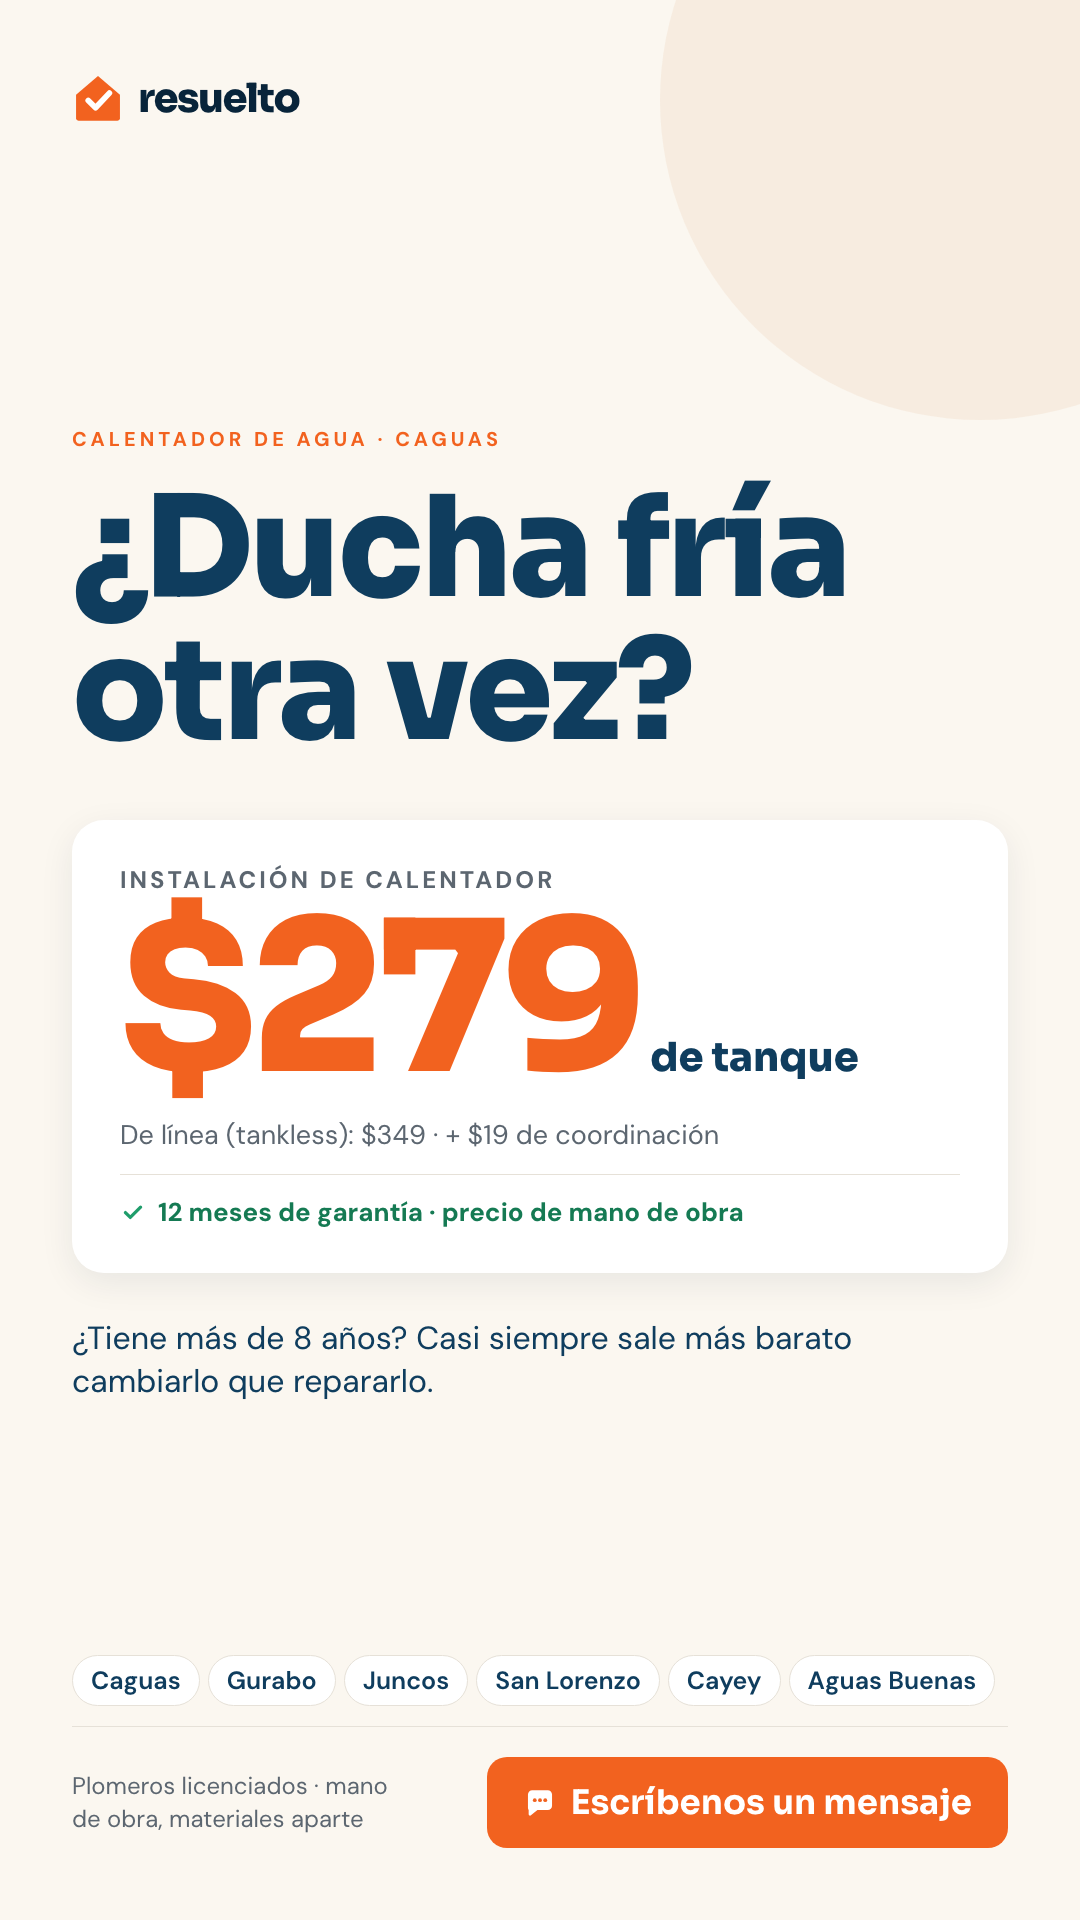
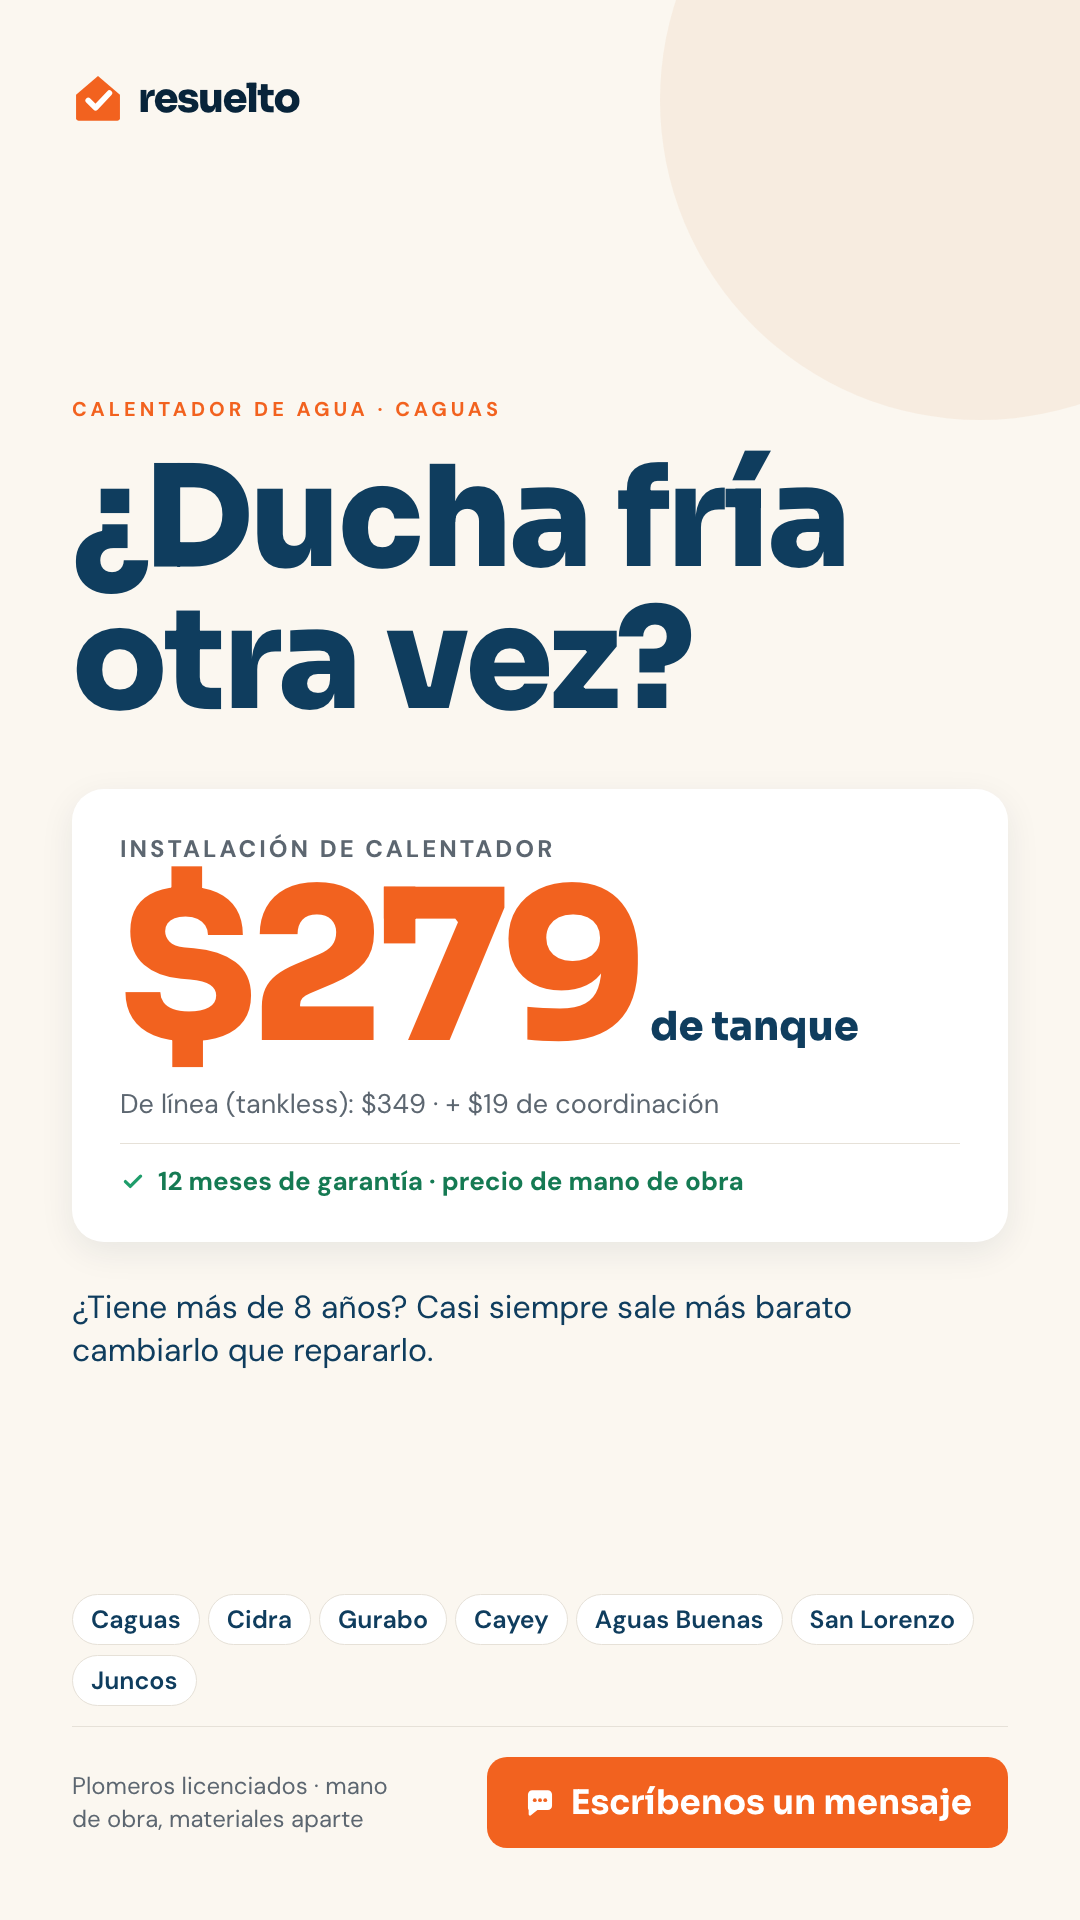
Resuelto: Luis Saez (Cidra) en T3, 'aprovecha la visita' en el agente, flyers y conjunto de ticket alto, plan de octubre

diff --git a/vault/proyectos/plomeria-pr/agente/src/prompt.ts b/vault/proyectos/plomeria-pr/agente/src/prompt.ts
@@ -124,6 +124,12 @@ En el chat de la web puedes ser un poco más completo, pero con el mismo tono. N
 7. Agenda con agendar_cita. Da el resumen (servicio, fecha, ventana, precio) como SOLICITUD, no como cita confirmada:
    los plomeros deciden qué trabajos cogen, así que dile que se la confirmamos por aquí en cuanto el plomero de su zona
    la acepte (casi siempre en menos de 30 minutos) y que le escribimos cuando vaya en camino. Nunca digas "quedó confirmada".
+   **Aprovecha la visita** (Elvin, 1/oct: subir el ticket): cuando le pidas los datos del paso 6 (no antes de que
+   escoja el horario), suma UNA sola pregunta corta: "Ya que el plomero va, ¿hay algo más que quieras que te revise, sin
+   otro cargo de coordinación? Por ejemplo un inodoro que se queda corriendo, una llave que gotea o un calentador de más
+   de 8 años." Si dice que sí, dale el precio con buscar_precio y ponlo en las notas de agendar_cita ("ADEMÁS: …"): el
+   plomero lo suma en sitio desde la app y el cliente lo aprueba por un enlace. Si dice que no, sigue normal y no
+   insistas. Si ya pidió dos cosas, no preguntes. Si lo dice después de agendar, usa pasar_al_plomero.
 8. Después del servicio (cuando te lo indiquen o el cliente pregunte): crear_link_pago, y a las 2 horas pide la reseña de Google.
 
 # Flujo con un CLIENTE de HANDYMAN, ELECTRICIDAD o AIRE ACONDICIONADO (27/sep/2026)

diff --git a/vault/proyectos/plomeria-pr/plan-octubre.md b/vault/proyectos/plomeria-pr/plan-octubre.md
@@ -1,0 +1,54 @@
+# Resuelto · Plan de octubre: subir el ticket y subir el cierre
+
+**1/oct/2026.** Sale de la evaluación de los primeros 10 días (21–30/sep) y de lo que pidió Elvin: "empujar subir el
+ticket, subir el cierre… activa campañas donde está el plomero nuevo, creativos de los tickets más altos, más lo que ya
+está funcionando (precio fijo)".
+
+## Dónde estamos
+
+| | Hoy |
+|---|---|
+| Plomeros activos | Edgar (Caguas, T3) · **Luis Saez (Cidra, T3, firmó hoy)** · Samuel (Quebradillas, T5) · Santos (Aguadilla, T7, maestro) |
+| Pauta | $65/día: Precio fijo Caguas, Quebradillas y Aguadilla $15 c/u · Confianza Aguadilla $10 · Llamadas Aguadilla $10 |
+| Lo que funciona | "Precio fijo" (flyer de la ciudad): Caguas 26 conversaciones a ~$2.20 en 7 días, Quebradillas 16 a ~$3.50 |
+| Lo que no | "Problemas" (destape/calentador en video) y llamadas: casi $0 en conversaciones |
+| Trabajos | R-0001 completado (Edgar) · R-0002 mañana 8 AM Caguas y R-0005 cisterna Gurabo sáb (ofrecidos a Luis) · R-0004 Cayey sáb (Edgar) |
+| El problema | Ticket promedio ~$150 → a Resuelto le quedan ~$64 por trabajo y cuesta ~$113 conseguir un cliente. Con $129 no da. |
+
+**La meta del mes:** ticket promedio **≥ $250** y cierre **≥ 15 %** de las conversaciones que dejan teléfono. Con eso,
+cada trabajo deja ~$110 y el cliente sale pagado en el primer trabajo.
+
+## 1. Subir el ticket
+
+| # | Qué | Estado |
+|---|---|---|
+| 1.1 | **Conjunto "D · Ticket alto" en Caguas y Cidra** ($15/día): 5 flyers nuevos (calentador solar desde $699 · trabajos grandes · factura de agua alta / filtración · cisterna desde $899 · calentador $279). Script `kit/anuncios/lanzar-ticket-alto.mjs`, listo. | ⏳ **espera el OK de Elvin** (gasta dinero) |
+| 1.2 | **"Aprovecha la visita"**: el agente, al pedir los datos para agendar, hace UNA pregunta para sumar algo a la misma visita sin otro cargo de coordinación (inodoro que corre, llave que gotea, calentador viejo). Va en las notas de la cita y el plomero lo suma en sitio con "Encontré algo más". | ✅ en el agente desde hoy |
+| 1.3 | **Plomeros vendiendo en sitio**: "Encontré algo más" y "Recomendar algo" en la app (65 % de lo aprobado es suyo). Yaileen se lo enseña a Luis en la llamada de bienvenida y le recuerda a Edgar. | ✅ app · Yaileen entrena |
+| 1.4 | **Destape con máquina $299** en los anuncios: solo cuando confirmemos qué plomero tiene máquina y cámara. | ❓ Yaileen pregunta a Edgar y Luis |
+| 1.5 | Repetir el conjunto D en Quebradillas y Aguadilla cuando el de Caguas tenga 5–7 días de datos (si el costo por conversación ≤ $5). Cada uno +$15/día. | después |
+
+## 2. Subir el cierre
+
+| # | Qué | Estado |
+|---|---|---|
+| 2.1 | **Precios desde el primer mensaje** ("hola", "info", "precio"): el 34 % escribía una vez y se iba. | ✅ desde el 30/sep |
+| 2.2 | **Nunca "cita sin plomero"** en Caguas: con Luis hay 2 plomeros en T3. R-0002 y R-0005 ya están ofrecidos a Luis. | ✅ |
+| 2.3 | **Llamar a quien deja número y no agenda**: Heileen llama el mismo día (le llega por Telegram cuando el cliente pide llamada). Siguiente paso: aviso automático a las 2 h si dejó teléfono y no agendó. | 🔜 construir |
+| 2.4 | **Las llamadas al 787-956-1111** se quedan en el aire por el bloqueo de Telnyx a números de PR. | ⏳ Elvin le pide a Zernio que habilite PR (+1 787/939) |
+| 2.5 | **Cobrar en el momento**: ATH Business / Stripe. Hoy se cobra a mano. | ⏳ Elvin |
+| 2.6 | Citas duplicadas bloqueadas · scope claro ("el precio es por lo que nos describiste; lo demás lo apruebas tú"). | ✅ |
+
+## 3. Pauta del mes (dentro del tope)
+
+- Hoy $65/día. Con el conjunto D de Caguas: **$80/día**. Tope de los primeros 30 días: $125.
+- Cada lunes: se apagan los anuncios con 0 conversaciones en 7 días y se pasa el dinero al que trae (método de Max).
+- Área nueva = plomero firmado + $15–20/día (Rafael en Canóvanas abriría Metro, donde ya hay demanda sin cobertura).
+
+## 4. Quién hace qué esta semana
+
+- **Elvin:** OK al conjunto D · Zernio (PR) · ATH Business/Stripe · recarga automática de Anthropic.
+- **Yaileen:** instalar la app con Luis y que acepte R-0002 antes de las 5:50 AM · preguntar quién tiene máquina de destape ·
+  firmas pendientes (Rafael de Jesus, Jose A. Vargas).
+- **Heileen:** llamar a cada cliente que deja número el mismo día; confirmar a Somarie (R-0002) cuando Luis acepte.
+- **Claude:** montar el conjunto D con el OK, aviso automático de "dejó número y no agendó", revisión de anuncios el lunes.
